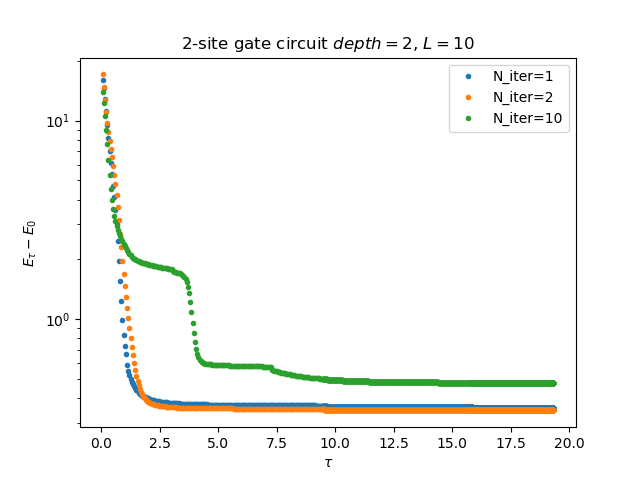
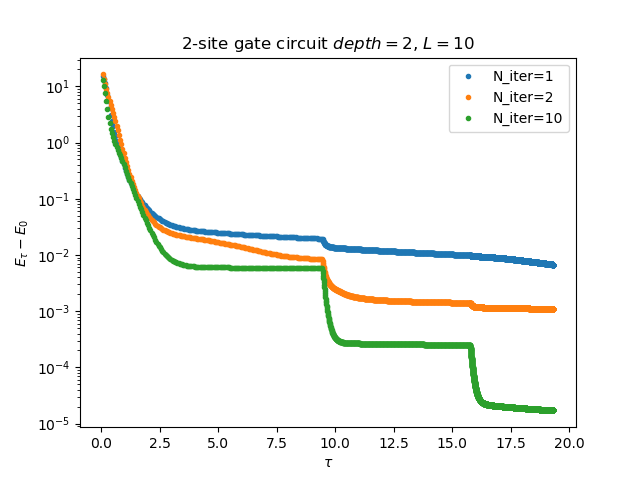
correct plot for N_iter

diff --git a/qTEBD_circuit.py b/qTEBD_circuit.py
@@ -450,8 +450,8 @@ if __name__ == "__main__":
 
                 for iter_idx in range(N_iter):
                     iter_mps = [A.copy() for A in new_mps]
-                    # for var_dep_idx in range(current_depth, 0, -1):
-                    for var_dep_idx in range(current_depth, current_depth-1, -1):
+                    for var_dep_idx in range(current_depth, 0, -1):
+                    # for var_dep_idx in range(current_depth, current_depth-1, -1):
                         # circuit is modified inplace
                         # new mps is returned
                         iter_mps, new_layer = var_layer([A.copy() for A in iter_mps],

diff --git a/README.md b/README.md
@@ -8,6 +8,10 @@
 ## qTEBD with circuit
 
 ![](figure/circuit_L10_depth1.png)
+
+There are different way to optimize n-layer circuit. Here we consider to randomly initialize 2-layer and optimize Niter time per time step.
 ![](figure/circuit_L10_depth2.png)
 ![](figure/circuit_L4_depth2.png)
+
+To be updated: Iterative optimization for each layer.
 
